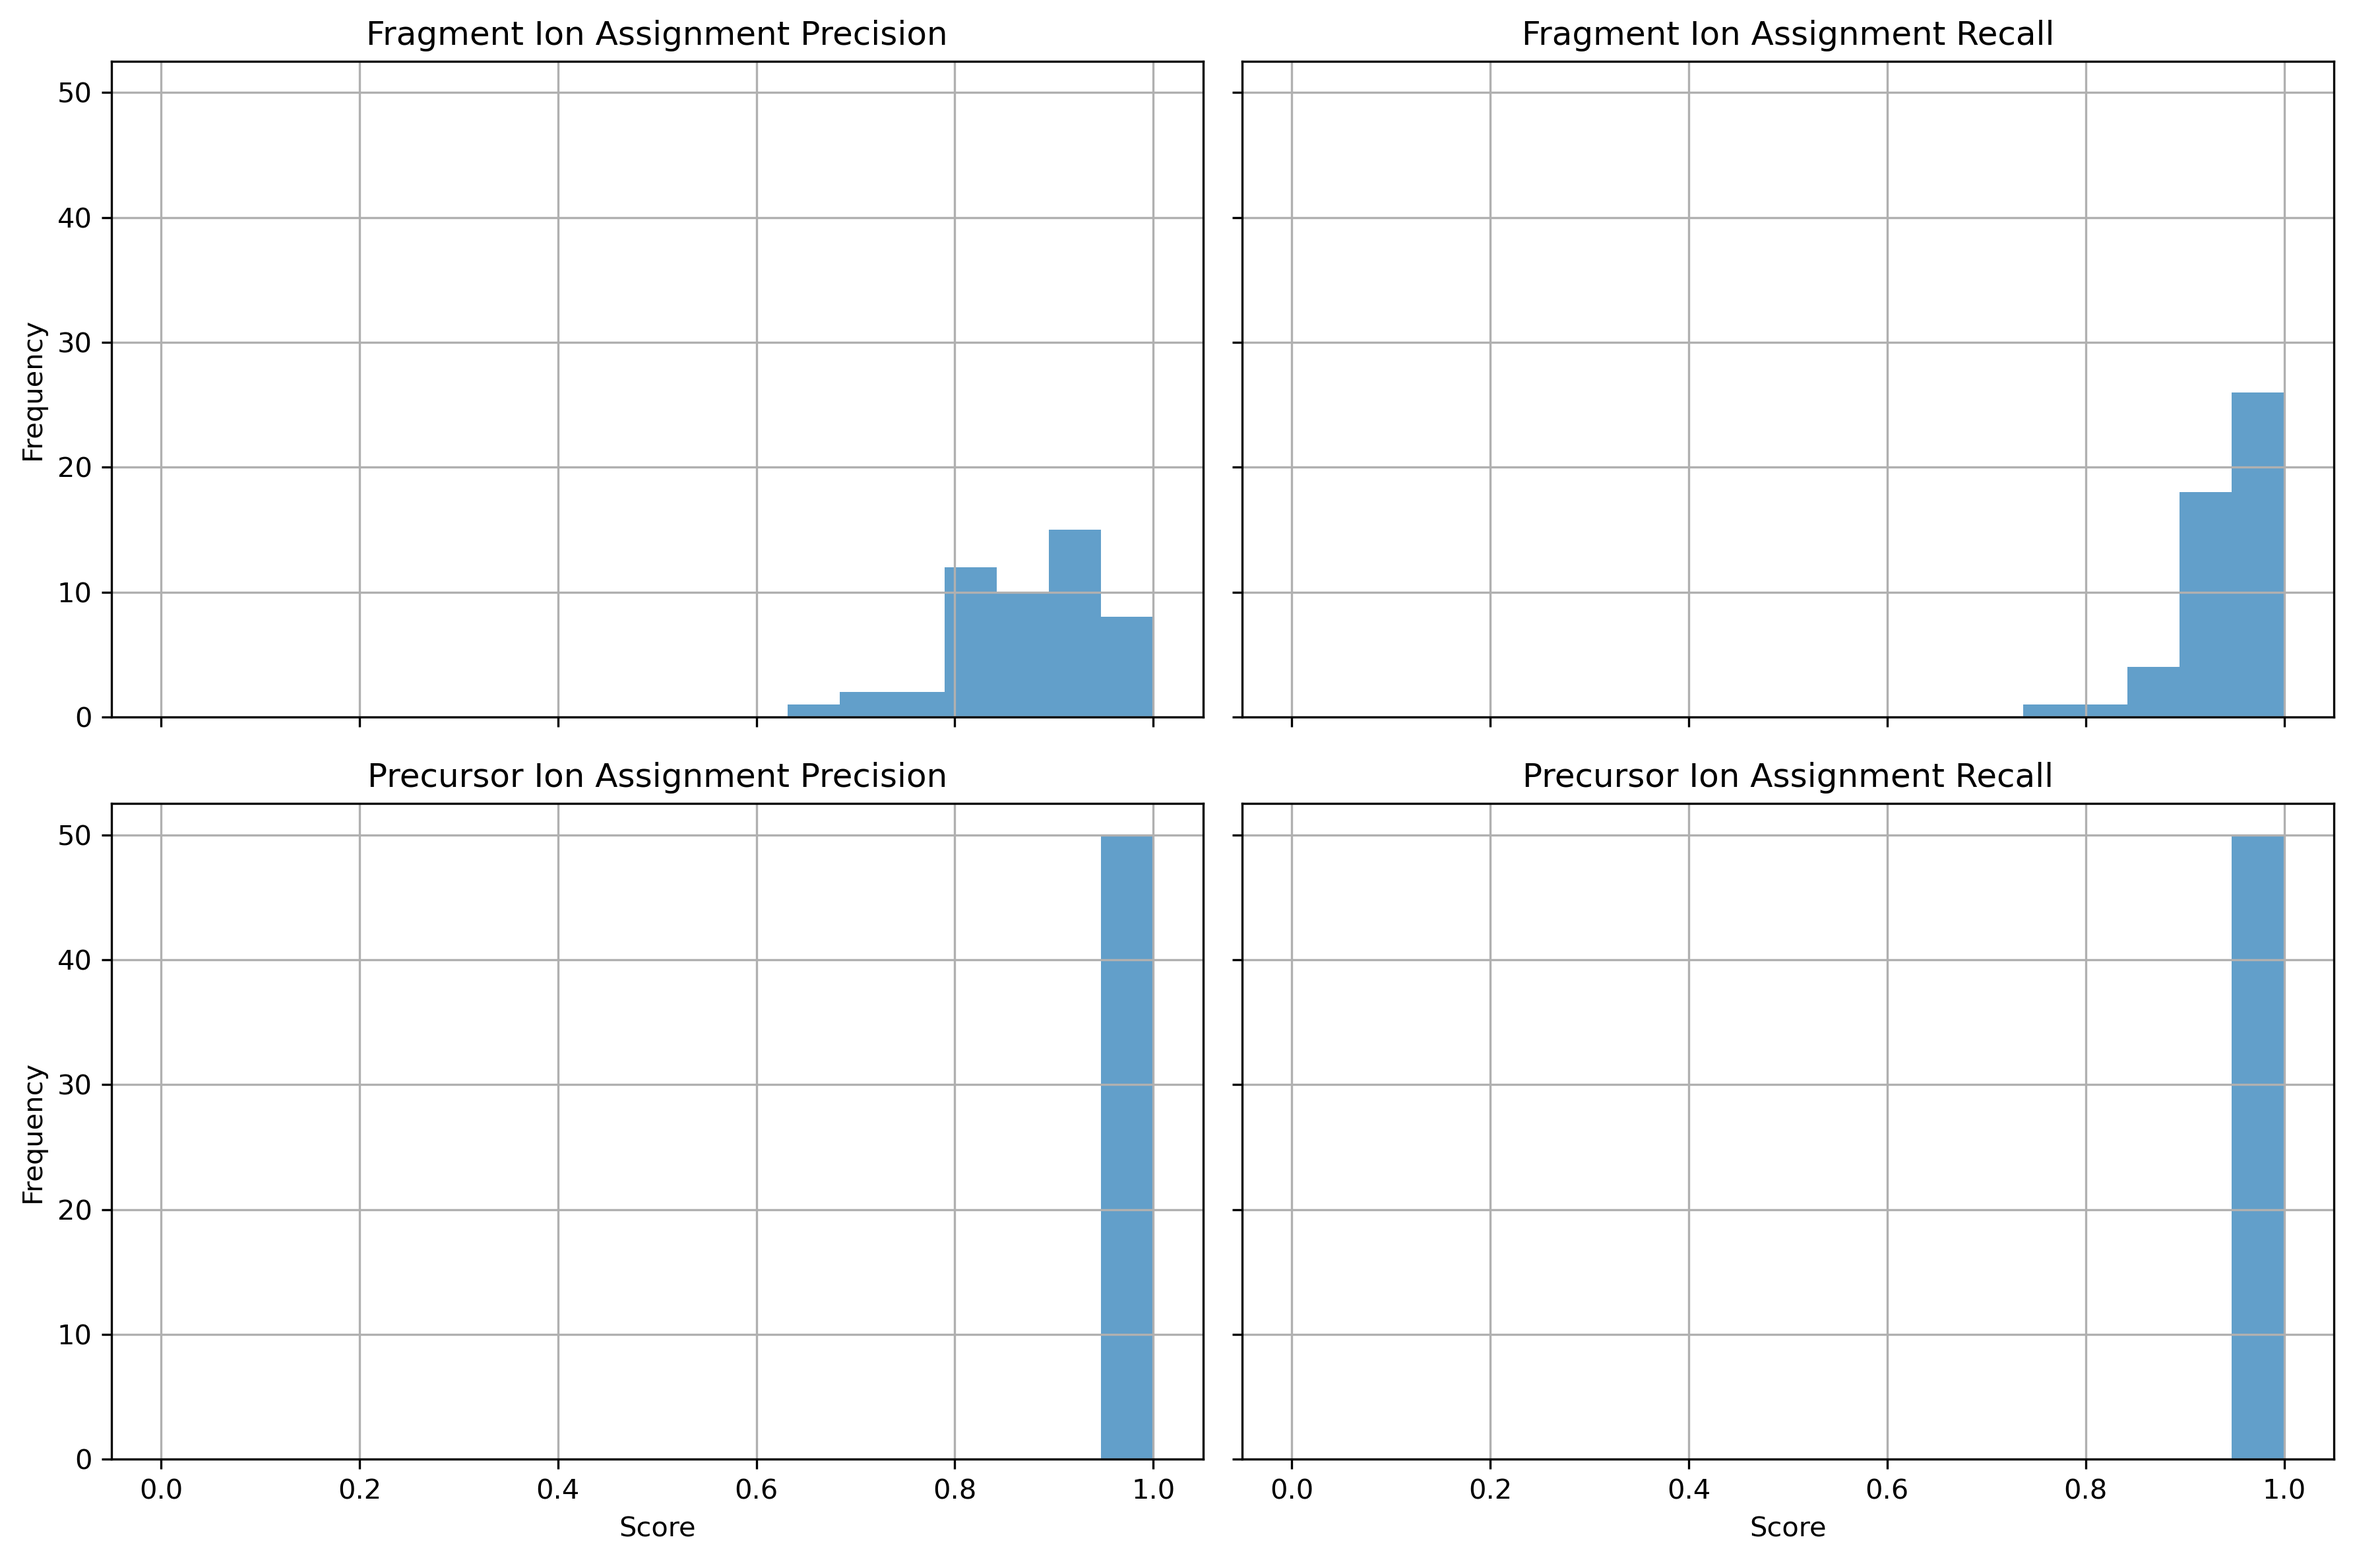
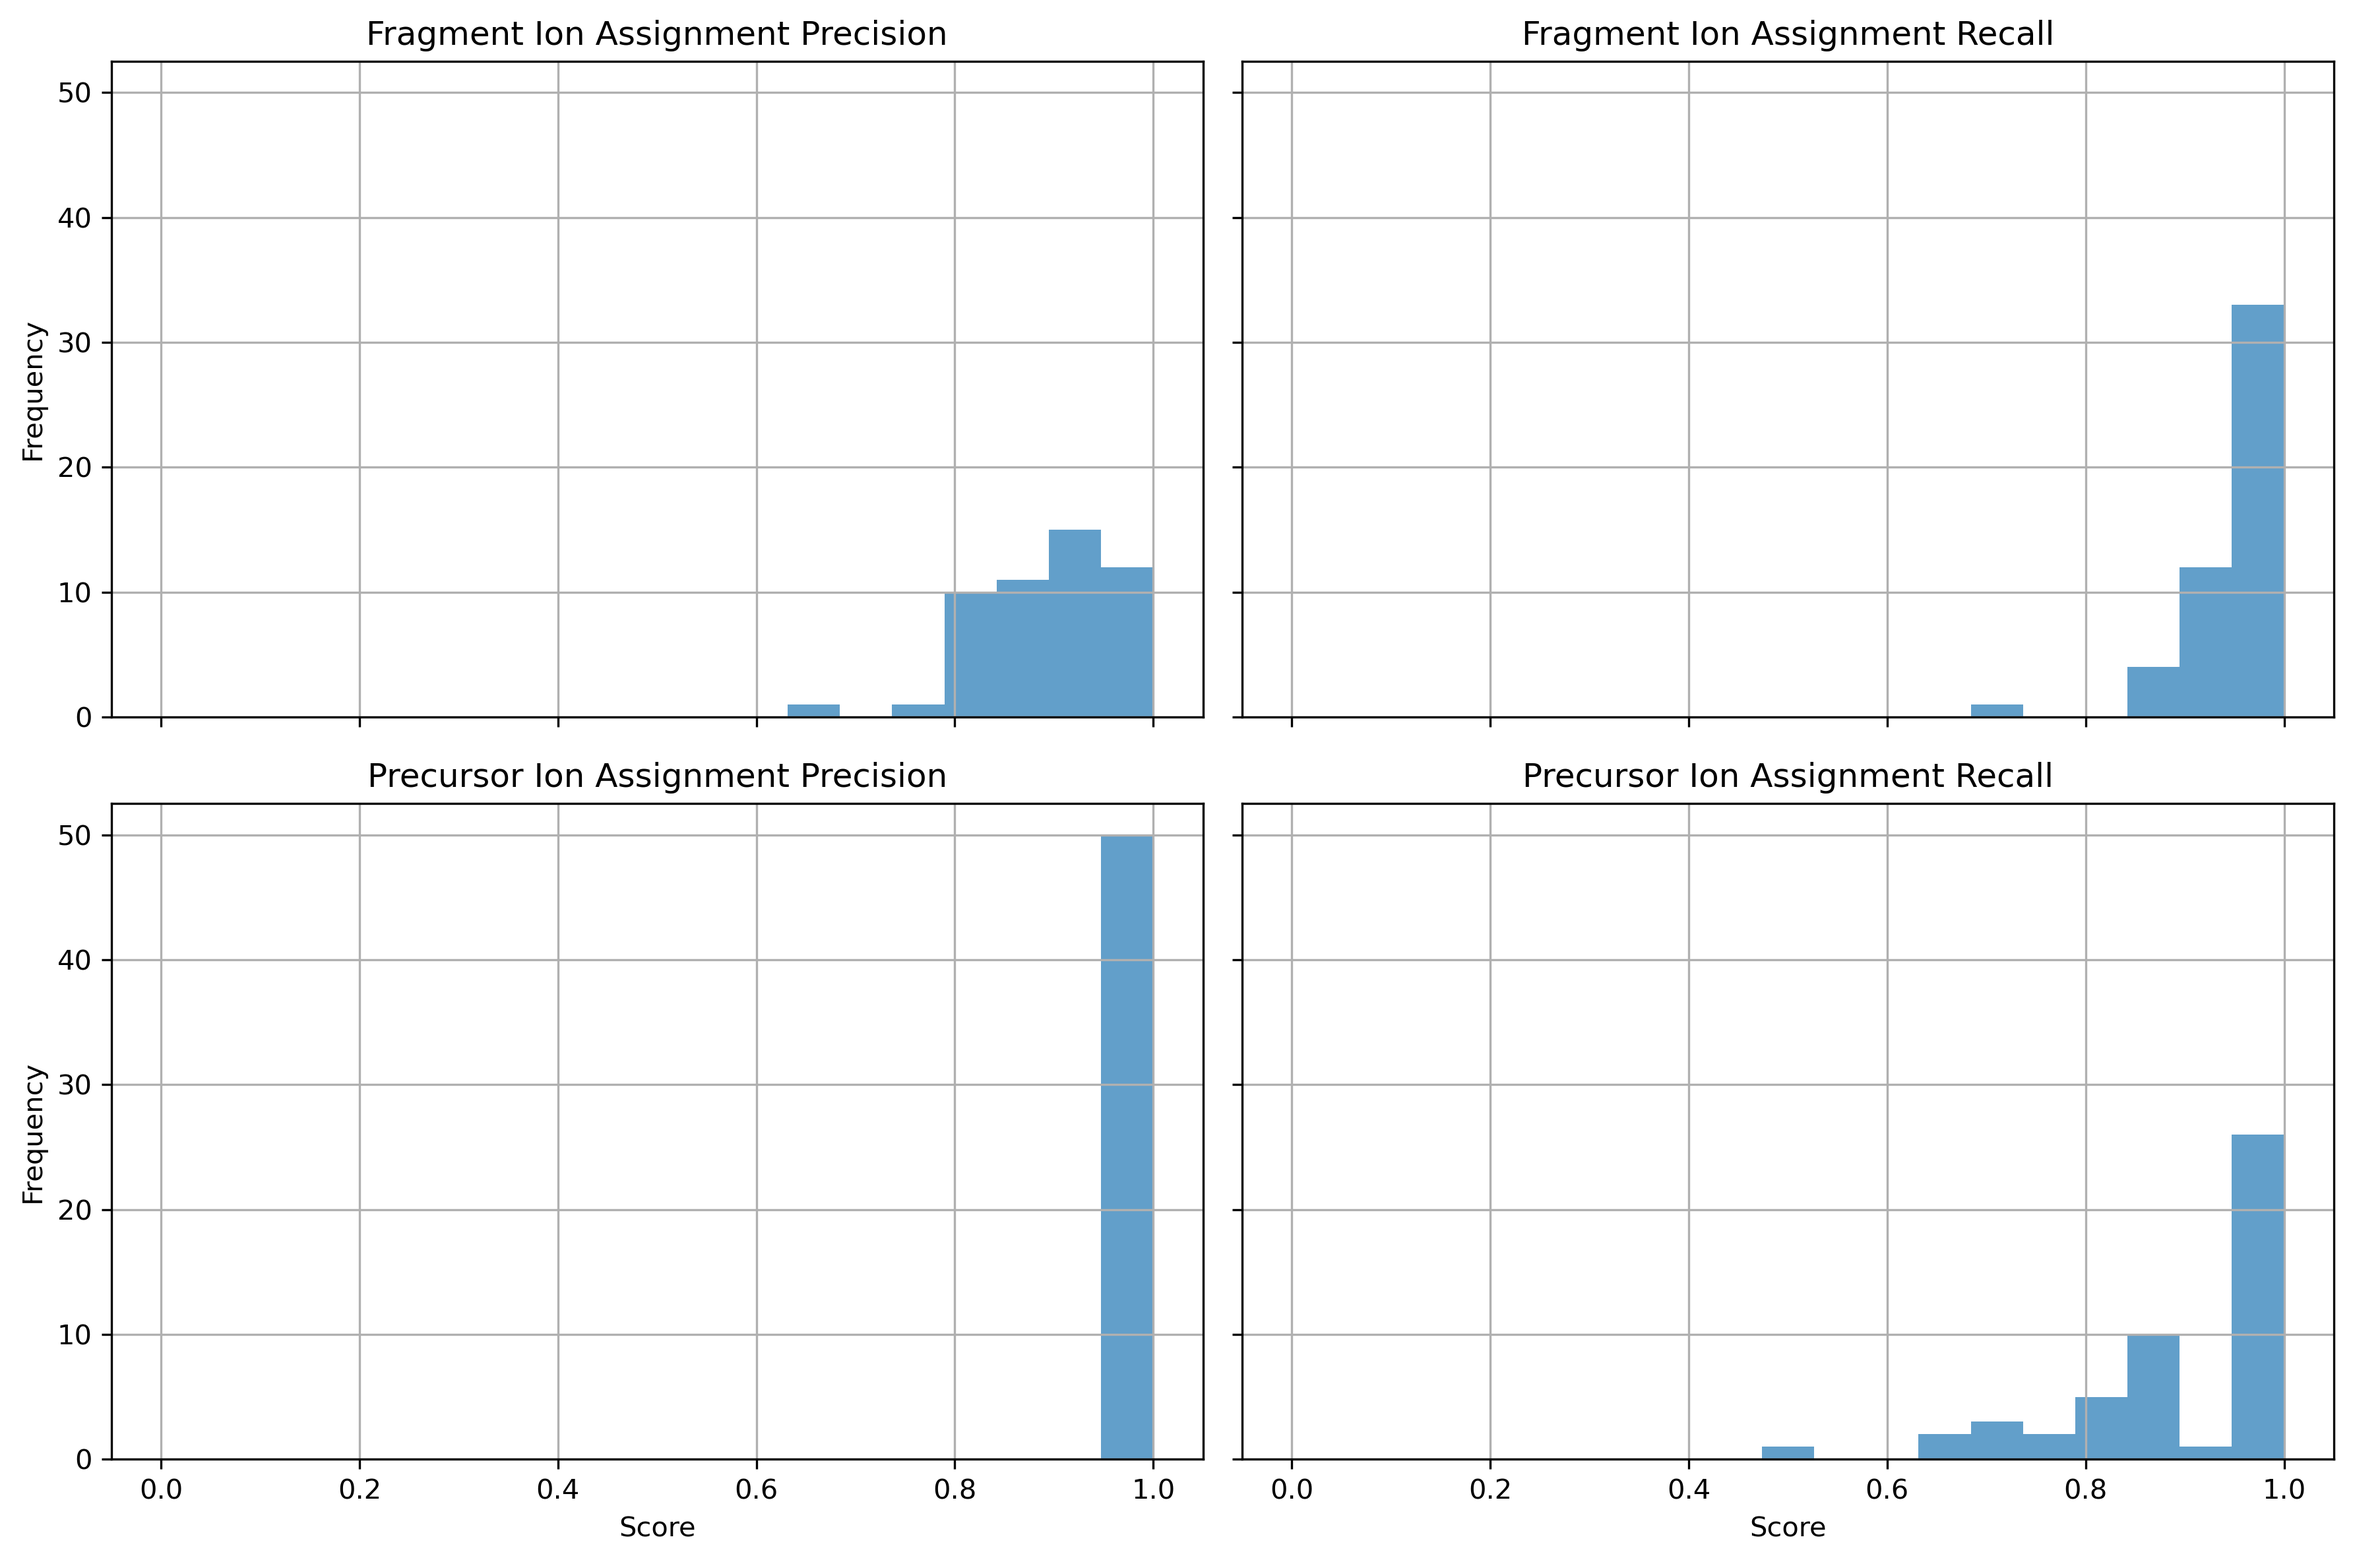
fixed a bug in how recall was calcualted for precursor ion recovery

diff --git a/envnet/deconvolution/validation.py b/envnet/deconvolution/validation.py
@@ -36,6 +36,11 @@ print(f"Fragment Recall: {summary['overall_fragment_recall']:.4f}")
 import pandas as pd
 import numpy as np
 import matplotlib.pyplot as plt
+# Configure matplotlib for vector-based PDF text (not rasterized)
+import matplotlib
+matplotlib.rcParams['pdf.fonttype'] = 42  # TrueType fonts (searchable text)
+matplotlib.rcParams['ps.fonttype'] = 42   # Also for PostScript output
+matplotlib.rcParams['font.family'] = 'DejaVu Sans'  # Use a standard font
 import os
 from typing import List, Dict, Tuple, Optional
 from pathlib import Path
@@ -259,10 +264,21 @@ class DeconvolutionValidator:
             'original_p2d2_index_original'
         ].unique()
         
-        deconvoluted_precursors = df.loc[
-            pd.notna(df['original_p2d2_index_deconvoluted']), 
-            'original_p2d2_index_deconvoluted'
-        ].unique()
+        # Get precursors that actually formed distinct clusters
+        if deconvoluted_df.empty:
+            deconvoluted_precursors = np.array([])
+        else:
+            # For each cluster, find the most common precursor ID
+            cluster_precursors = []
+            for cluster_id in deconvoluted_df['cluster'].unique():
+                cluster_data = deconvoluted_df[deconvoluted_df['cluster'] == cluster_id]
+                if 'original_p2d2_index' in cluster_data.columns:
+                    precursor_ids = cluster_data['original_p2d2_index'].dropna()
+                    if len(precursor_ids) > 0:
+                        most_common = precursor_ids.mode()
+                        if len(most_common) > 0:
+                            cluster_precursors.append(most_common.iloc[0])
+            deconvoluted_precursors = np.array(cluster_precursors)
         
         tp = len(set(original_precursors) & set(deconvoluted_precursors))
         fp = len(set(deconvoluted_precursors) - set(original_precursors))
@@ -414,7 +430,16 @@ class DeconvolutionValidator:
         frag_recall = frag_tp / (frag_tp + frag_fn) if (frag_tp + frag_fn) > 0 else 0
         frag_f1 = 2 * (frag_precision * frag_recall) / (frag_precision + frag_recall) if (frag_precision + frag_recall) > 0 else 0
         
-        # Average metrics
+        # Overall precursor metrics (same approach as fragments)
+        precursor_tp = results_df['tp'].sum()
+        precursor_fp = results_df['fp'].sum()
+        precursor_fn = results_df['fn'].sum()
+        
+        overall_precursor_precision = precursor_tp / (precursor_tp + precursor_fp) if (precursor_tp + precursor_fp) > 0 else 0
+        overall_precursor_recall = precursor_tp / (precursor_tp + precursor_fn) if (precursor_tp + precursor_fn) > 0 else 0
+        overall_precursor_f1 = 2 * (overall_precursor_precision * overall_precursor_recall) / (overall_precursor_precision + overall_precursor_recall) if (overall_precursor_precision + overall_precursor_recall) > 0 else 0
+        
+        # Average metrics (for comparison)
         avg_precursor_precision = results_df['precision'].mean()
         avg_precursor_recall = results_df['recall'].mean()
         avg_precursor_f1 = results_df['f1_score'].mean()
@@ -427,6 +452,9 @@ class DeconvolutionValidator:
             'overall_fragment_precision': frag_precision,
             'overall_fragment_recall': frag_recall,
             'overall_fragment_f1': frag_f1,
+            'overall_precursor_precision': overall_precursor_precision,
+            'overall_precursor_recall': overall_precursor_recall,
+            'overall_precursor_f1': overall_precursor_f1,
             'avg_precursor_precision': avg_precursor_precision,
             'avg_precursor_recall': avg_precursor_recall,
             'avg_precursor_f1': avg_precursor_f1,
@@ -575,9 +603,43 @@ def main():
     """Main validation execution function."""
     print("Starting LCMS Deconvolution Validation...")
     
-    # Initialize validator
+    # Import necessary modules
+    from pathlib import Path
+    from ..build.reference import load_p2d2_reference_data
+    from ..config import DeconvolutionConfig, BuildConfig
+    
+    # Initialize validator with proper configuration (like in your notebook)
     print("Initializing validator with BuildConfig...")
-    validator = DeconvolutionValidator()
+    
+    # Set up paths
+    PYTHONPATH = "/global/homes/b/bpb/repos/envnet"
+    
+    # 1. Load the MDM neutral loss data required by the p2d2 loader
+    print("Loading MDM neutral loss data...")
+    mdm_path = Path(PYTHONPATH) / "envnet" / "data" / "mdm_neutral_losses.csv"
+    mdm_df = pd.read_csv(mdm_path)
+
+    # 2. Load the P2D2 reference library using the correct function
+    print("Loading P2D2 reference spectral library...")
+    ref_df, _ = load_p2d2_reference_data(deltas=mdm_df)
+
+    # 3. Manually populate the BuildConfig with the loaded P2D2 spectra
+    spectra_path = Path(PYTHONPATH) / "scripts" / "build_files.csv"
+    build_config = BuildConfig(file_metadata_path=str(spectra_path))
+    build_config.ref_spec = ref_df['spectrum'].tolist()
+    build_config.ref_pmz = ref_df['precursor_mz'].tolist()
+    ref_df = ref_df.reset_index().rename(columns={'index': 'ref_spec_index'})
+    build_config.ref_nodes = ref_df
+
+    # 4. Configure deconvolution parameters
+    deconv_config = DeconvolutionConfig(
+        z_score_threshold=2,
+        num_points=3,
+        isolation_tolerance=0.75
+    )
+
+    # 5. Initialize validator with proper configs
+    validator = DeconvolutionValidator(deconv_config=deconv_config, build_config=build_config)
     
     # Create output directory
     output_dir = Path("validation_results")
@@ -606,14 +668,14 @@ def main():
     # Precision/recall histograms
     ValidationPlotter.plot_precision_recall_histograms(
         results_df, 
-        save_path=output_dir / "precision_recall_histograms.png"
+        save_path=output_dir / "precision_recall_histograms.pdf"
     )
     
     # Example validation plots
     ValidationPlotter.plot_validation_examples(
         validator,
         num_examples=8,
-        save_path=output_dir / "validation_examples.png"
+        save_path=output_dir / "validation_examples.pdf"
     )
     
     # Save summary metrics
